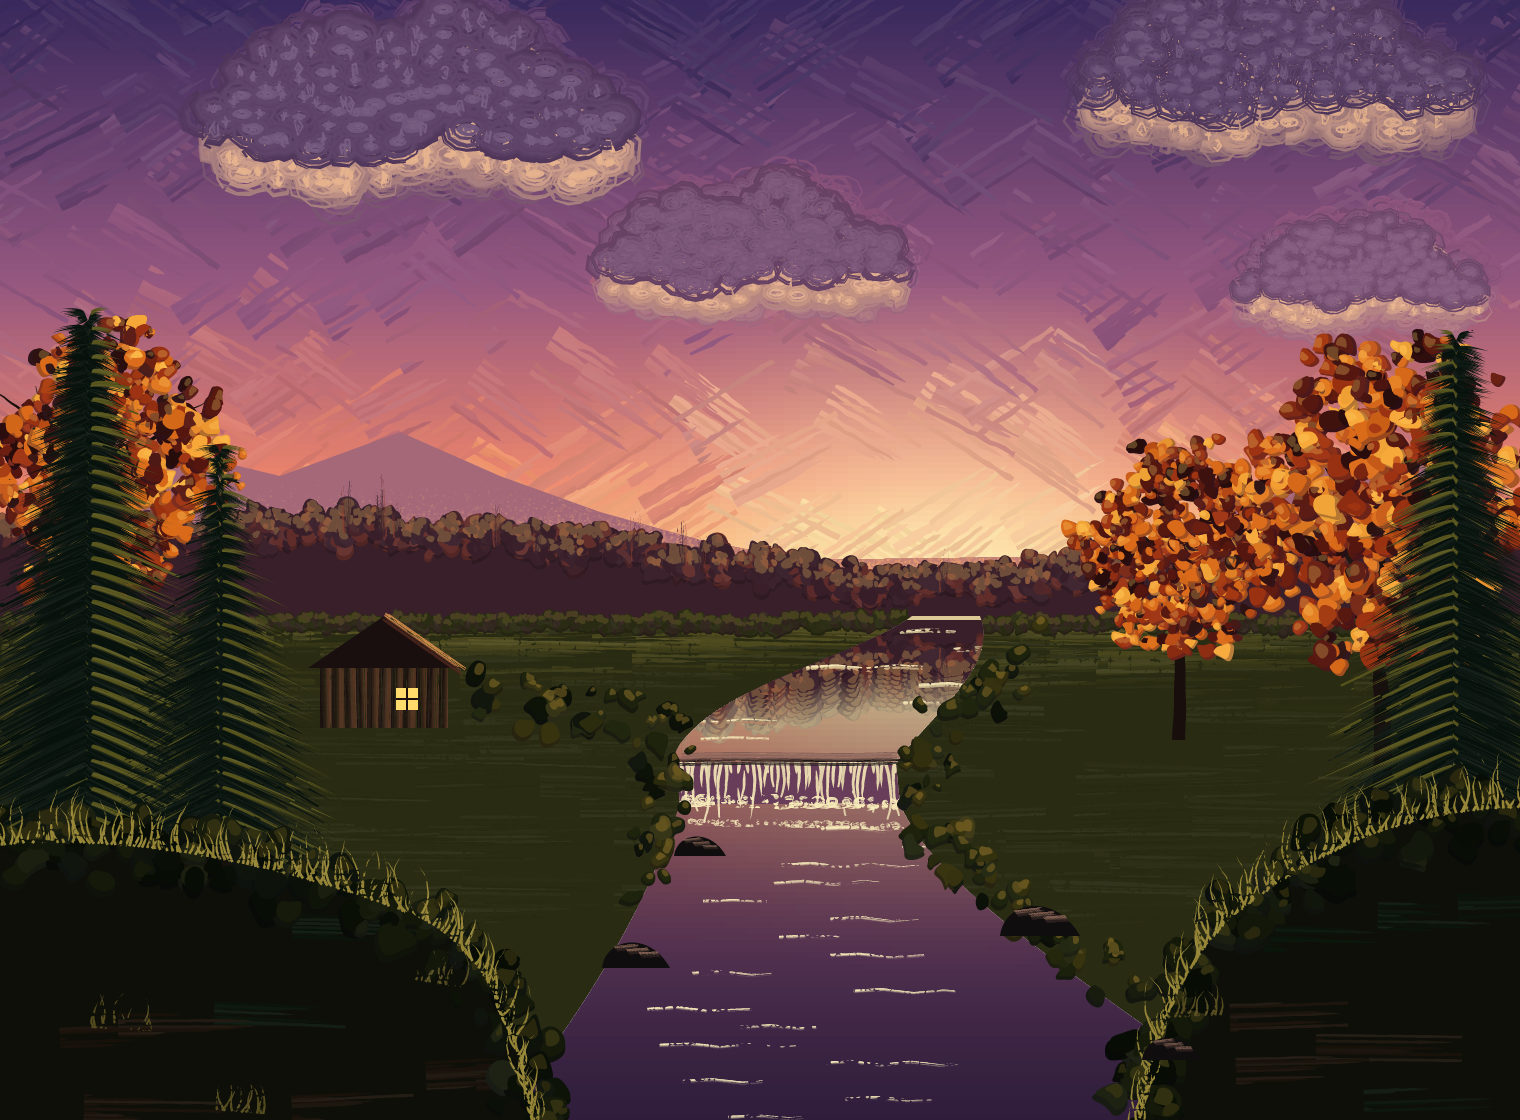
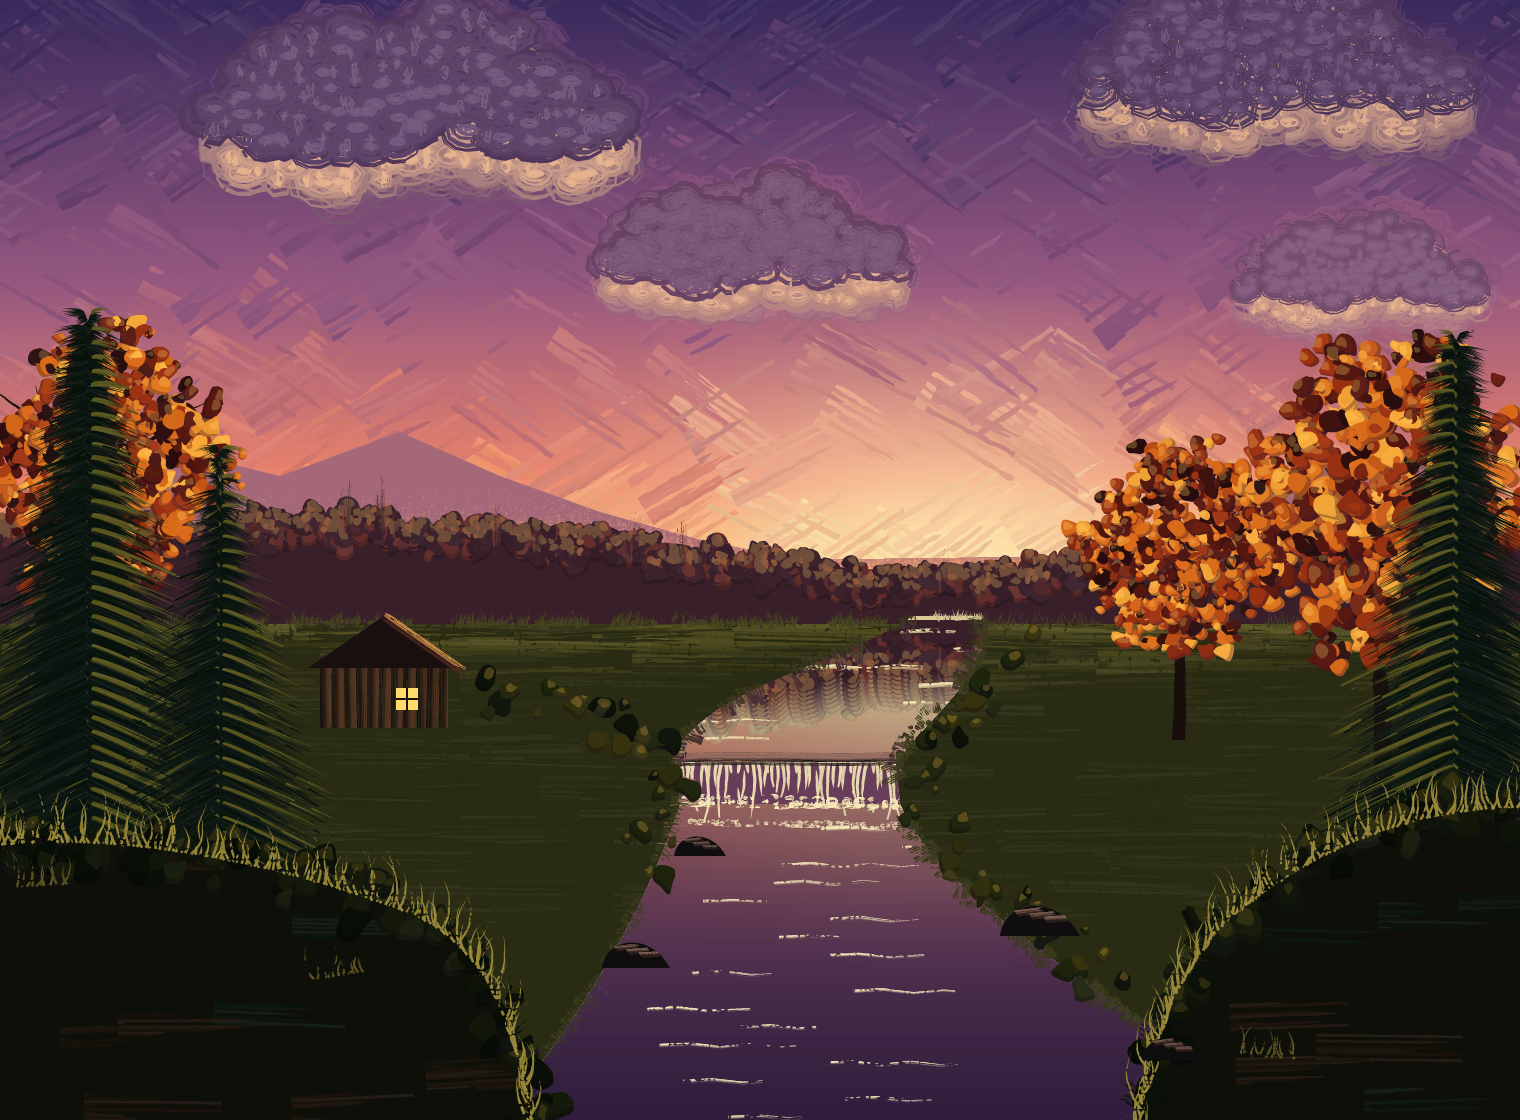
gallery: Evening Stream's mass edges brushed with pkbrushedge (#382) (#427)
* gallery: Evening Stream's mass edges brushed with pkbrushedge (#382)

The stream banks, the stream's head, the far shore and the near banks' rims
are brushed instead of hidden by tapped dabs and bush chains. Bushes and grass
that grow there stay, with the bank bushes thinned. Re-rendered the 2x still.

Claude-Session: https://claude.ai/code/session_01GTbCLDB6QC7UV1i7qukUEL

* gallery: Evening Stream's edge procedures bind; note wording (#382)

Claude-Session: https://claude.ai/code/session_01GTbCLDB6QC7UV1i7qukUEL

---------

diff --git a/gallery/README.md b/gallery/README.md
@@ -43,7 +43,7 @@ overridden per line through the font's scratch dict.
 | Lecture 14 | `chalkboard_lecture.ps` | (issue #238, epic #232's chalk track) A slate board as a professor left it after deriving Euler's formula from the Taylor series, across three sliding panels: the series recalled, x = iθ substituted and regrouped into its real and imaginary parts, the result boxed twice in yellow chalk, then a freehand unit circle and Euler's identity circled, with side notes, arrows, underlines and the homework in a corner. Formulas are `lib/mathkit.ps` layouts (`mkalign`, `mkframe`, `mkunderline`, `mkarrow`), inked with `lib/drychalk.ps`'s `dcchalk` on three `dcboard` panels that carry the last lecture (the Gaussian integral and a bell curve) as `/Ghost` writing under eraser swipes. The hand leans further and loosens panel by panel. No alpha, so Ghostscript draws the same board |
 | My Family and Our House | `crayon_drawing.ps` | (issue #240, the crayon track of epic #232) A six-year-old's picture on printer paper, built the way a child builds one from `lib/drycrayon.ps` on drykit's toothed surface: the sky a band of blue scribble across the top and the grass a band along the bottom, both laid in side-by-side patches that run past their edges and leave white seams; a sun far too big, yellow scribble over the blue with a smile; a red house with a brown roof, a path, a tree with apples, flowers, birds and a smoking chimney; four stick figures about as tall as the house; and the name in strokeglyphs' capitals (#236) with a backward S, each letter its own size and lean. Outlines go on last. The drawing is `dywobble`, `dyscribble`, `dyloop`, `dyrays`, `dygrass` and `dyfigure` paths inked by `dycrayon` in the 16-crayon box's colours. The reference comparison is `docs/drymedia/crayon_drawing_compare.jpg` |
 | Study after Berger, 1864 | `lincoln_charcoal.ps` | (issue #242, epic #232) An art student's charcoal portrait of Abraham Lincoln after Anthony Berger's 1864 photograph (`references/lincoln_berger_1864.jpg`). `lib/etching.ps`'s `et-tonemap` reads the photo into a 240 × 300 grid of darkness, and drycharcoal (#241) draws to it in a student's order on drykit's drawing paper: faint `dhsketch` construction lines (head oval, centre line, brow/eye/nose/mouth lines, shoulders), `dhsmudge` stump tone inside the dark masses, `dhhatch` to the photo's values (fine and short in the face, finer still at the features, looser vine strokes in the coat), compressed-charcoal and pencil accents at the brows, eyes, nose and mouth, and hard-eraser `dhlift` streaks in the hair and on the lapel. The coat and the ground fade out raggedly, as in a real study. Renders in Ghostscript with `-dSAFER --permit-file-read=lib/ --permit-file-read=gallery/references/lincoln_berger_1864.jpg` |
-| Evening Stream | `evening_stream.ps` | (issue #187, epic #112's second landscape) An autumn evening: a stream comes out of the glow where the sun went down, over a little fall and between near-black banks, past a cabin with its lamp lit. Painted on one `pkcanvas` (#182) with the round-2 tools and no landscape helper: a criss-cross sky from a broad brush loaded with two neighbouring sky colours (`/Colors`, #183), clouds scumbled in tiny circles (`pkscumblein`, #184) with a lit underside, a backlit wood tapped in with `pktap` and a loaded `pkdab` whose reflection is pulled down whole by one directional `pkwet` (#181), autumn trees with warm `/HighlightColor` and cool `/ShadowColor`, evergreens on a fan loaded dark and lit with `/Light`, knife rocks and cabin, a `pkpull` fall and grass, and `pkzigzag` light on the water caught on the canvas weave with `/Touch`. No alpha, so Ghostscript paints the same scene |
+| Evening Stream | `evening_stream.ps` | (issue #187, epic #112's second landscape) An autumn evening: a stream comes out of the glow where the sun went down, over a little fall and between near-black banks, past a cabin with its lamp lit. Painted on one `pkcanvas` (#182) with the round-2 tools and no landscape helper: a criss-cross sky from a broad brush loaded with two neighbouring sky colours (`/Colors`, #183), clouds scumbled in tiny circles (`pkscumblein`, #184) with a lit underside, a backlit wood tapped in with `pktap` and a loaded `pkdab` whose reflection is pulled down whole by one directional `pkwet` (#181), autumn trees with warm `/HighlightColor` and cool `/ShadowColor`, evergreens on a fan loaded dark and lit with `/Light`, knife rocks and cabin, a `pkpull` fall and grass, `pkzigzag` light on the water caught on the canvas weave with `/Touch`, and the meadows', stream's and near banks' ruled edges brushed with `pkbrushedge` (#382). No alpha, so Ghostscript paints the same scene |
 
 **Nightfall, Three Cuts departs from `printkit.ps`'s siblings' own precedent — hatchkit/stipplekit/surfacekit/halftonekit each shipped specimen-only, "a primitive gets a specimen, not a gallery card."** Issue #52 explicitly asked for one gallery composition in addition to the specimen sheet, so this is a deliberate one-off, not drift; the next sibling-file author should read it as that, not as a new default.
 

diff --git a/notes/382-evening-stream-brushedge.md b/notes/382-evening-stream-brushedge.md
@@ -1,0 +1,49 @@
+## Evening Stream: the mass edges brushed with pkbrushedge (issue #382, 2026-10-14)
+
+`gallery/evening_stream.ps` hid its ruled edges by hand (#347 asked for the
+tool). With `pkbrushedge` landed, the hand-placed breakers that only existed to
+break a ruled edge are replaced by it; the 2x still is re-rendered. Only the
+`.ps`, the still and docs change; no `lib/` change.
+
+- **What was brushed.**
+  - *Stream banks* (`evbankedges`): the open `evleftedge` / `evrightedge`
+    paths, meadow colour pulled out toward the water (`/Outward 0` and `180`),
+    the water cut back in. Run after `evstream` and `evfall`, which repaint the
+    whole stream rectangle under a clip and would otherwise erase it.
+  - *The stream's head* (`evstreamhead`): the flat bright strip where the water
+    meets the far shore, which no one had hidden by hand.
+  - *The far shore* (`evfaredges`): the two `pktap` + `pkdab` rows along the
+    meadows' far edge are gone; `pkbrushedge` with the wood's foot as `/Under`.
+  - *The near banks' rims* (`evnear`): the bank colour pulled out over the
+    meadow, or over the stream where it runs behind the bank's lower corner.
+- **What stayed.** The grass pulled up along each rim and in tufts (it grows
+  there), the autumn trees, the pines, the rocks and the bushes along the
+  stream, all of which are part of the picture. The rim and stream-bank bush
+  `pkdab` calls were thinned (`/Density` 2.5 to 1.2 on the near banks, 1.6 to
+  0.8 on the stream banks, `/Scatter` a little lower) so they read as a few
+  bushes, not a chain along the edge.
+- **`/Under` is a position-dependent procedure in both bank cases.**
+  - `evunderstream`: above the fall the water beside the banks is the dark
+    pulled reflection of the wood, not the sky gradient, so it returns the water
+    colour mixed 0.9 toward `evWOOD`; below the fall it is `evwaterat`. With
+    plain `evwaterat` the cuts printed pale sky-coloured nicks into the meadow.
+  - `evunderbank`: meadow, except where the stream runs behind the bank's lower
+    inner corner (a crude straight-line test of the stream's edges; no path
+    operator inside the procedure).
+- **Pull-out colour matters.** `pkbrushedge` pulls out the *current* colour, so
+  it is set to what is really painted at each edge: the meadow colour lit toward
+  the glow along the far shore, and nearly plain meadow beside the stream
+  (the lit meadow colour showed as yellow spikes).
+- **Random state.** The three new edge procedures each start from their own
+  `srand` (17, 19, 21), so the elements after them keep their marks. The
+  exception is `evnear`: its `pkbrushedge` draws from the stream partway
+  through the procedure and the bush density changed, so the rim bushes, tufts
+  and grass of both near banks fall differently from the first still.
+- **Review.** Three render rounds: first colour too bright, then a pale glitch
+  at the stream's head from a sky-coloured `/Under`, then bushes thinned. The
+  result is a clear improvement at 2x: the stream and shore edges read as brushed
+  and the bank edge no longer looks cut out.
+- **Reproducibility.** Two 2x renders are byte-identical; `--lint` is clean;
+  Ghostscript renders the scene without errors (its rand stream differs).
+- **Left alone on purpose** (separate tickets): the cloud lit side (#384) and
+  the fall's `/Scatter`.

diff --git a/docs/guides/painting.md b/docs/guides/painting.md
@@ -598,7 +598,9 @@ whose reflection is pulled down whole by one directional `pkwet` (it
 paints only in loaded colours, which `pkwet` grades), autumn trees on a
 loaded `pkdab` with warm highlight and cool shadow hues, evergreens on a
 fan loaded dark and lit with `/Light`, a `pkpull` fall, and
-`pkzigzag` light lines that catch on the canvas weave.
+`pkzigzag` light lines that catch on the canvas weave, and `pkbrushedge`
+on the stream banks, the far shore and the near banks, so no big mass has a
+ruled edge (issue #382).
 
 ## Watercolor: pkwash and pkpaper
 
